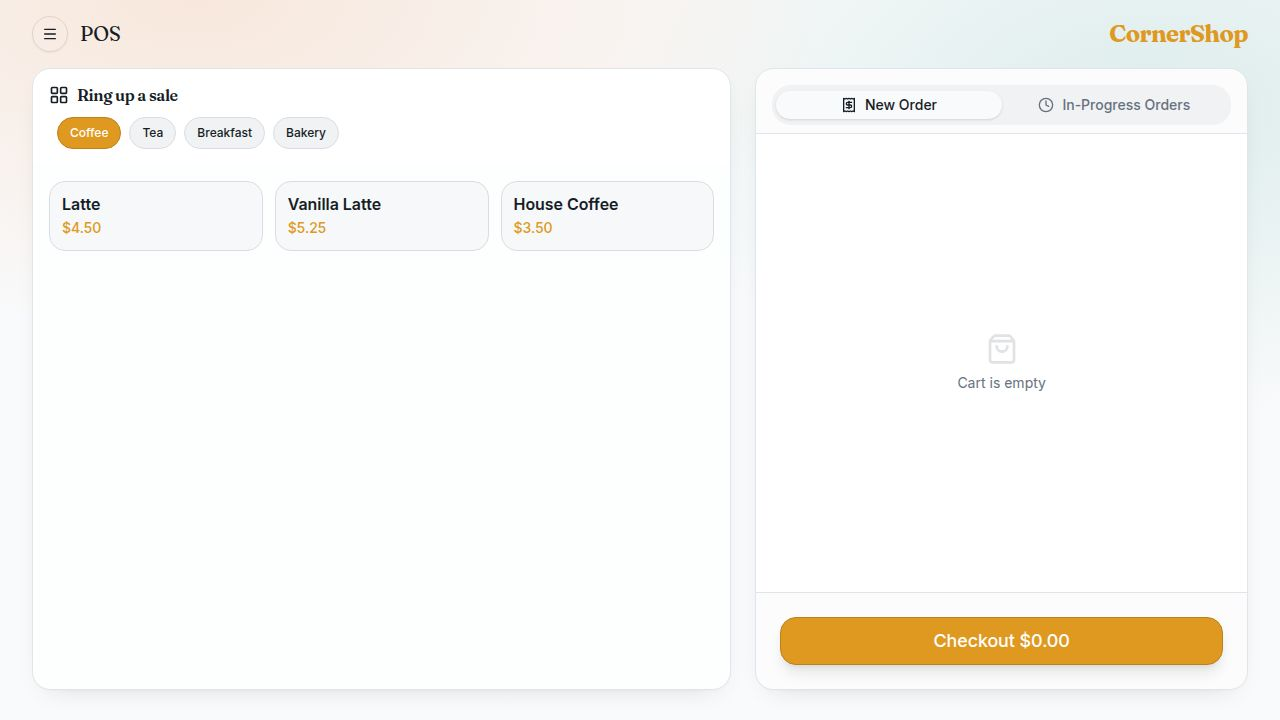
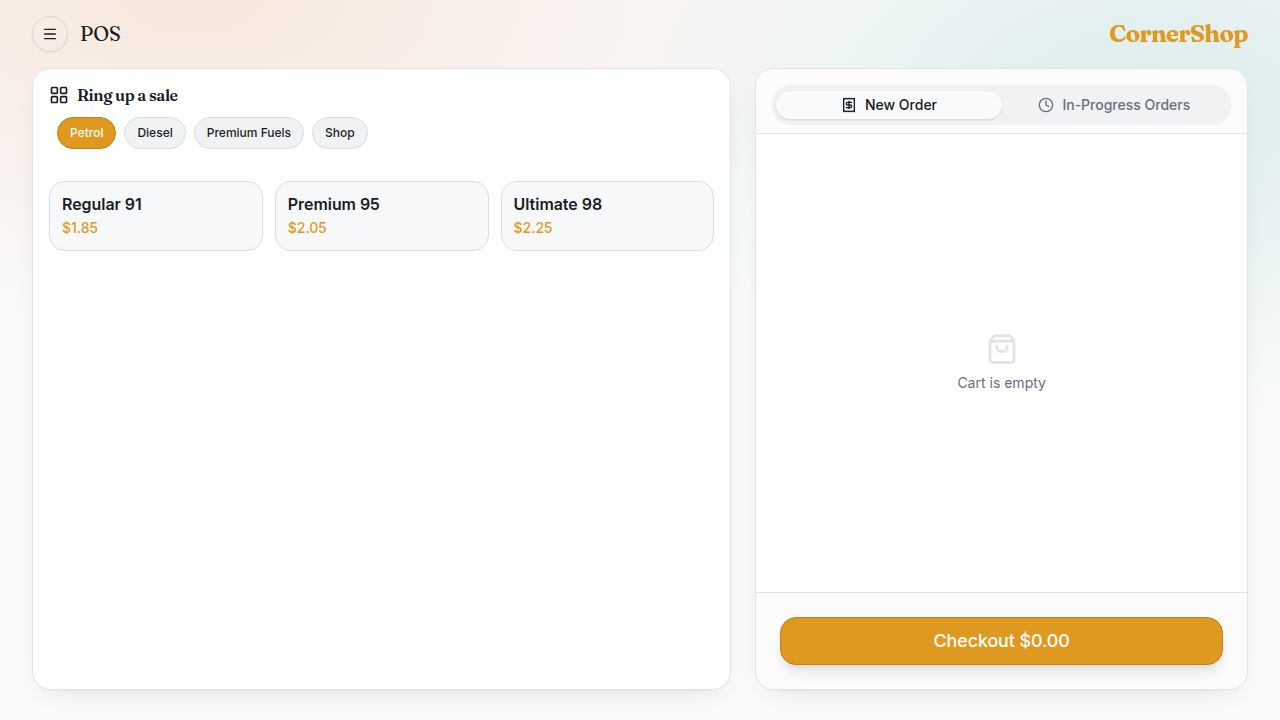
Update product catalog to reflect a fuel station inventory and items
Refactored InventoryCategories and InventoryItems in store.tsx to represent fuel bases, additives, lubricants, and convenience items. Modified the ProductsPage in products.tsx to update tab names and icons to "Station Menu," "Fuel Mixes," and "Bulk Inventory," replacing previous food-related categories.

Replit-Commit-Author: Agent
Replit-Commit-Session-Id: f95fa0e5-361e-4a0f-a562-40c214809f94
Replit-Commit-Checkpoint-Type: full_checkpoint
Replit-Commit-Event-Id: be2161f3-d375-43f7-87ae-0e7599a8deb6
Replit-Commit-Screenshot-Url: https://storage.googleapis.com/screenshot-production-us-central1/4710a650-8e96-41ee-a11f-932c0bb5f92b/f95fa0e5-361e-4a0f-a562-40c214809f94/gTTDk92
Replit-Helium-Checkpoint-Created: true

diff --git a/client/src/lib/store.tsx b/client/src/lib/store.tsx
@@ -147,142 +147,61 @@ const INITIAL_TIME_PUNCHES: TimePunch[] = [
 ];
 
 const INITIAL_INV_CATS: InventoryCategory[] = [
-  { id: "cat_beans", name: "Coffee Beans" },
-  { id: "cat_tea", name: "Tea & Chai" },
-  { id: "cat_dairy", name: "Dairy & Alt Milks" },
-  { id: "cat_syrups", name: "Syrups" },
-  { id: "cat_produce", name: "Fresh Produce" },
-  { id: "cat_proteins", name: "Proteins" },
-  { id: "cat_dry", name: "Dry Goods" },
-  { id: "cat_bakery", name: "Bakery Stock" },
+  { id: "cat_fuel", name: "Fuel Bases" },
+  { id: "cat_additives", name: "Additives" },
+  { id: "cat_lubricants", name: "Lubricants" },
+  { id: "cat_shop", name: "Convenience Items" },
 ];
 
 const INITIAL_INVENTORY: InventoryItem[] = [
-  // Coffee
-  { id: "beans_house", name: "House Blend Beans", categoryId: "cat_beans", sku: "BEAN-HSE", onHand: 5000, reorderAt: 1000, unitCostCents: 2, unit: "g" },
-  { id: "beans_decaf", name: "Decaf Beans", categoryId: "cat_beans", sku: "BEAN-DEC", onHand: 2000, reorderAt: 500, unitCostCents: 2, unit: "g" },
+  // Fuel
+  { id: "fuel_petrol_base", name: "Unleaded Base", categoryId: "cat_fuel", sku: "FL-PET-B", onHand: 50000, reorderAt: 10000, unitCostCents: 110, unit: "L" },
+  { id: "fuel_diesel_base", name: "Diesel Base", categoryId: "cat_fuel", sku: "FL-DSL-B", onHand: 40000, reorderAt: 8000, unitCostCents: 120, unit: "L" },
+  { id: "fuel_octane_booster", name: "Octane Booster", categoryId: "cat_additives", sku: "AD-OCT", onHand: 5000, reorderAt: 1000, unitCostCents: 50, unit: "L" },
   
-  // Tea
-  { id: "tea_matcha", name: "Matcha Powder", categoryId: "cat_tea", sku: "TEA-MAT", onHand: 500, reorderAt: 100, unitCostCents: 15, unit: "g" },
-  { id: "tea_chai", name: "Chai Concentrate", categoryId: "cat_tea", sku: "TEA-CHAI", onHand: 3000, reorderAt: 1000, unitCostCents: 1, unit: "ml" },
-  { id: "tea_earl", name: "Earl Grey Bags", categoryId: "cat_tea", sku: "TEA-EARL", onHand: 200, reorderAt: 50, unitCostCents: 15, unit: "each" },
-
-  // Dairy
-  { id: "milk_whole", name: "Whole Milk", categoryId: "cat_dairy", sku: "MILK-WHL", onHand: 8000, reorderAt: 2000, unitCostCents: 0.5, unit: "ml" },
-  { id: "milk_oat", name: "Oat Milk", categoryId: "cat_dairy", sku: "MILK-OAT", onHand: 4000, reorderAt: 1000, unitCostCents: 0.8, unit: "ml" },
-  { id: "milk_almond", name: "Almond Milk", categoryId: "cat_dairy", sku: "MILK-ALM", onHand: 3000, reorderAt: 1000, unitCostCents: 0.7, unit: "ml" },
-  
-  // Syrups
-  { id: "syrup_vanilla", name: "Vanilla Syrup", categoryId: "cat_syrups", sku: "SYP-VAN", onHand: 2000, reorderAt: 500, unitCostCents: 1.2, unit: "ml" },
-  { id: "syrup_caramel", name: "Caramel Syrup", categoryId: "cat_syrups", sku: "SYP-CAR", onHand: 1500, reorderAt: 500, unitCostCents: 1.2, unit: "ml" },
-  
-  // Produce & Proteins
-  { id: "prod_avo", name: "Avocado", categoryId: "cat_produce", sku: "PROD-AVO", onHand: 20, reorderAt: 10, unitCostCents: 150, unit: "each" },
-  { id: "bread_sour", name: "Sourdough Slice", categoryId: "cat_bakery", sku: "BAK-SOUR", onHand: 40, reorderAt: 10, unitCostCents: 30, unit: "each" },
-  { id: "prot_egg", name: "Eggs", categoryId: "cat_proteins", sku: "PROT-EGG", onHand: 60, reorderAt: 20, unitCostCents: 25, unit: "each" },
-  { id: "prot_ham", name: "Ham Slice", categoryId: "cat_proteins", sku: "PROT-HAM", onHand: 50, reorderAt: 15, unitCostCents: 40, unit: "each" },
-  { id: "dairy_cheese", name: "Cheddar Slice", categoryId: "cat_proteins", sku: "DAIRY-CHZ", onHand: 50, reorderAt: 15, unitCostCents: 30, unit: "each" },
-
-  // Dry Goods & Bakery
-  { id: "cup_12oz", name: "Hot Cup 12oz", categoryId: "cat_dry", sku: "CUP-12", onHand: 500, reorderAt: 100, unitCostCents: 8, unit: "each" },
-  { id: "cup_16oz", name: "Hot Cup 16oz", categoryId: "cat_dry", sku: "CUP-16", onHand: 400, reorderAt: 100, unitCostCents: 10, unit: "each" },
-  { id: "muffin_blueberry", name: "Blueberry Muffin", categoryId: "cat_bakery", sku: "MUF-BLU", onHand: 12, reorderAt: 6, unitCostCents: 120, unit: "each" },
-  { id: "cross_butter", name: "Butter Croissant", categoryId: "cat_bakery", sku: "BAK-CROS", onHand: 15, reorderAt: 8, unitCostCents: 90, unit: "each" },
+  // Shop
+  { id: "oil_synthetic", name: "Full Synthetic Oil", categoryId: "cat_lubricants", sku: "LB-SYN", onHand: 100, reorderAt: 20, unitCostCents: 1500, unit: "bottle" },
+  { id: "water_bottle", name: "Spring Water 500ml", categoryId: "cat_shop", sku: "SH-WTR", onHand: 200, reorderAt: 50, unitCostCents: 40, unit: "each" },
 ];
 
 const INITIAL_MENU_CATS: MenuCategory[] = [
-  { id: "mc_drinks", name: "Coffee" },
-  { id: "mc_tea", name: "Tea" },
-  { id: "mc_breakfast", name: "Breakfast" },
-  { id: "mc_bakery", name: "Bakery" },
+  { id: "mc_petrol", name: "Petrol" },
+  { id: "mc_diesel", name: "Diesel" },
+  { id: "mc_premium", name: "Premium Fuels" },
+  { id: "mc_shop", name: "Shop" },
 ];
 
 const INITIAL_RECIPES: Recipe[] = [
-  // Coffee
   {
-    id: "recipe_latte",
-    name: "Latte 12oz",
+    id: "recipe_91",
+    name: "Regular 91 Petrol",
     components: [
-      { id: "comp_beans", type: "ingredient", name: "Espresso", inventoryCategoryId: "cat_beans", defaultInventoryItemId: "beans_house", qty: 18, unit: "g" },
-      { id: "comp_milk", type: "ingredient", name: "Milk", inventoryCategoryId: "cat_dairy", defaultInventoryItemId: "milk_whole", qty: 250, unit: "ml" },
-      { id: "comp_cup", type: "ingredient", name: "Cup", inventoryCategoryId: "cat_dry", defaultInventoryItemId: "cup_12oz", qty: 1, unit: "each" },
+      { id: "comp_petrol", type: "ingredient", name: "Petrol Base", inventoryCategoryId: "cat_fuel", defaultInventoryItemId: "fuel_petrol_base", qty: 1, unit: "L" },
     ]
   },
   {
-    id: "recipe_vanilla_latte",
-    name: "Vanilla Latte 12oz",
+    id: "recipe_95",
+    name: "Premium 95 Petrol",
     components: [
-      { id: "comp_beans", type: "ingredient", name: "Espresso", inventoryCategoryId: "cat_beans", defaultInventoryItemId: "beans_house", qty: 18, unit: "g" },
-      { id: "comp_milk", type: "ingredient", name: "Milk", inventoryCategoryId: "cat_dairy", defaultInventoryItemId: "milk_whole", qty: 230, unit: "ml" },
-      { id: "comp_syrup", type: "ingredient", name: "Flavor", inventoryCategoryId: "cat_syrups", defaultInventoryItemId: "syrup_vanilla", qty: 20, unit: "ml" },
-      { id: "comp_cup", type: "ingredient", name: "Cup", inventoryCategoryId: "cat_dry", defaultInventoryItemId: "cup_12oz", qty: 1, unit: "each" },
+      { id: "comp_petrol", type: "ingredient", name: "Petrol Base", inventoryCategoryId: "cat_fuel", defaultInventoryItemId: "fuel_petrol_base", qty: 0.95, unit: "L" },
+      { id: "comp_octane", type: "ingredient", name: "Octane Additive", inventoryCategoryId: "cat_additives", defaultInventoryItemId: "fuel_octane_booster", qty: 0.05, unit: "L" },
     ]
   },
   {
-    id: "recipe_coffee",
-    name: "Drip Coffee 12oz",
+    id: "recipe_diesel",
+    name: "Standard Diesel",
     components: [
-       { id: "comp_beans", type: "ingredient", name: "Beans", inventoryCategoryId: "cat_beans", defaultInventoryItemId: "beans_house", qty: 20, unit: "g" },
-       { id: "comp_cup", type: "ingredient", name: "Cup", inventoryCategoryId: "cat_dry", defaultInventoryItemId: "cup_12oz", qty: 1, unit: "each" },
-    ]
-  },
-  // Tea
-  {
-    id: "recipe_matcha",
-    name: "Matcha Latte 12oz",
-    components: [
-      { id: "comp_tea", type: "ingredient", name: "Matcha", inventoryCategoryId: "cat_tea", defaultInventoryItemId: "tea_matcha", qty: 5, unit: "g" },
-      { id: "comp_milk", type: "ingredient", name: "Milk", inventoryCategoryId: "cat_dairy", defaultInventoryItemId: "milk_oat", qty: 250, unit: "ml" },
-      { id: "comp_cup", type: "ingredient", name: "Cup", inventoryCategoryId: "cat_dry", defaultInventoryItemId: "cup_12oz", qty: 1, unit: "each" },
-    ]
-  },
-  {
-    id: "recipe_chai",
-    name: "Chai Latte 12oz",
-    components: [
-      { id: "comp_tea", type: "ingredient", name: "Concentrate", inventoryCategoryId: "cat_tea", defaultInventoryItemId: "tea_chai", qty: 120, unit: "ml" },
-      { id: "comp_milk", type: "ingredient", name: "Milk", inventoryCategoryId: "cat_dairy", defaultInventoryItemId: "milk_whole", qty: 130, unit: "ml" },
-      { id: "comp_cup", type: "ingredient", name: "Cup", inventoryCategoryId: "cat_dry", defaultInventoryItemId: "cup_12oz", qty: 1, unit: "each" },
-    ]
-  },
-  // Food
-  {
-    id: "recipe_avotoast",
-    name: "Avocado Toast",
-    components: [
-      { id: "comp_bread", type: "ingredient", name: "Bread", inventoryCategoryId: "cat_bakery", defaultInventoryItemId: "bread_sour", qty: 1, unit: "each" },
-      { id: "comp_avo", type: "ingredient", name: "Avocado", inventoryCategoryId: "cat_produce", defaultInventoryItemId: "prod_avo", qty: 1, unit: "each" },
-      { id: "comp_egg", type: "ingredient", name: "Add Egg", inventoryCategoryId: "cat_proteins", defaultInventoryItemId: "prot_egg", qty: 0, unit: "each" }, // Optional
-    ]
-  },
-  {
-    id: "recipe_croissant_sand",
-    name: "Ham & Cheese Croissant",
-    components: [
-      { id: "comp_bread", type: "ingredient", name: "Croissant", inventoryCategoryId: "cat_bakery", defaultInventoryItemId: "cross_butter", qty: 1, unit: "each" },
-      { id: "comp_meat", type: "ingredient", name: "Ham", inventoryCategoryId: "cat_proteins", defaultInventoryItemId: "prot_ham", qty: 2, unit: "each" },
-      { id: "comp_cheese", type: "ingredient", name: "Cheese", inventoryCategoryId: "cat_proteins", defaultInventoryItemId: "dairy_cheese", qty: 1, unit: "each" },
+      { id: "comp_diesel", type: "ingredient", name: "Diesel Base", inventoryCategoryId: "cat_fuel", defaultInventoryItemId: "fuel_diesel_base", qty: 1, unit: "L" },
     ]
   }
 ];
 
 const INITIAL_MENU: MenuItem[] = [
-  // Coffee
-  { id: "item_latte", name: "Latte", priceCents: 450, categoryIds: ["mc_drinks"], taxable: true, recipeId: "recipe_latte" },
-  { id: "item_vanilla_latte", name: "Vanilla Latte", priceCents: 525, categoryIds: ["mc_drinks"], taxable: true, recipeId: "recipe_vanilla_latte" },
-  { id: "item_coffee", name: "House Coffee", priceCents: 350, categoryIds: ["mc_drinks"], taxable: true, recipeId: "recipe_coffee" },
-  
-  // Tea
-  { id: "item_matcha", name: "Matcha Latte", priceCents: 550, categoryIds: ["mc_tea"], taxable: true, recipeId: "recipe_matcha" },
-  { id: "item_chai", name: "Chai Latte", priceCents: 500, categoryIds: ["mc_tea"], taxable: true, recipeId: "recipe_chai" },
-  
-  // Breakfast
-  { id: "item_avotoast", name: "Avocado Toast", priceCents: 850, categoryIds: ["mc_breakfast"], taxable: true, recipeId: "recipe_avotoast" },
-  { id: "item_croissant_sand", name: "Ham & Cheese Croissant", priceCents: 750, categoryIds: ["mc_breakfast"], taxable: true, recipeId: "recipe_croissant_sand" },
-  
-  // Bakery
-  { id: "item_muffin", name: "Blueberry Muffin", priceCents: 375, categoryIds: ["mc_bakery", "mc_breakfast"], taxable: true, recipeId: null },
-  { id: "item_croissant", name: "Butter Croissant", priceCents: 350, categoryIds: ["mc_bakery"], taxable: true, recipeId: null },
+  { id: "item_91", name: "Regular 91", priceCents: 185, categoryIds: ["mc_petrol"], taxable: true, recipeId: "recipe_91" },
+  { id: "item_95", name: "Premium 95", priceCents: 205, categoryIds: ["mc_petrol", "mc_premium"], taxable: true, recipeId: "recipe_95" },
+  { id: "item_98", name: "Ultimate 98", priceCents: 225, categoryIds: ["mc_petrol", "mc_premium"], taxable: true, recipeId: null },
+  { id: "item_diesel", name: "Diesel", priceCents: 195, categoryIds: ["mc_diesel"], taxable: true, recipeId: "recipe_diesel" },
+  { id: "item_water", name: "Bottled Water", priceCents: 250, categoryIds: ["mc_shop"], taxable: true, recipeId: null },
 ];
 
 // --- Provider ---

diff --git a/client/src/pages/products.tsx b/client/src/pages/products.tsx
@@ -2,7 +2,7 @@ import { useState, useMemo } from "react";
 import { motion } from "framer-motion";
 import AppShell from "@/components/app-shell";
 import { Tabs, TabsList, TabsTrigger, TabsContent } from "@/components/ui/tabs";
-import { ClipboardList, Soup, Package } from "lucide-react";
+import { ClipboardList, Fuel, Package } from "lucide-react";
 
 // Import existing pages as components
 // We'll need to modify them slightly to be used as components or just render them here
@@ -21,13 +21,13 @@ export default function ProductsPage() {
             <div className="flex items-center justify-between mb-6">
                <TabsList className="bg-card border shadow-sm rounded-xl h-12 p-1 w-fit">
                 <TabsTrigger value="menu" className="rounded-lg h-full px-4">
-                  <ClipboardList className="h-4 w-4 mr-2" /> Menu
+                  <ClipboardList className="h-4 w-4 mr-2" /> Station Menu
                 </TabsTrigger>
                 <TabsTrigger value="recipes" className="rounded-lg h-full px-4">
-                  <Soup className="h-4 w-4 mr-2" /> Recipes
+                  <Fuel className="h-4 w-4 mr-2" /> Fuel Mixes
                 </TabsTrigger>
                 <TabsTrigger value="inventory" className="rounded-lg h-full px-4">
-                  <Package className="h-4 w-4 mr-2" /> Ingredients
+                  <Package className="h-4 w-4 mr-2" /> Bulk Inventory
                 </TabsTrigger>
               </TabsList>
             </div>
